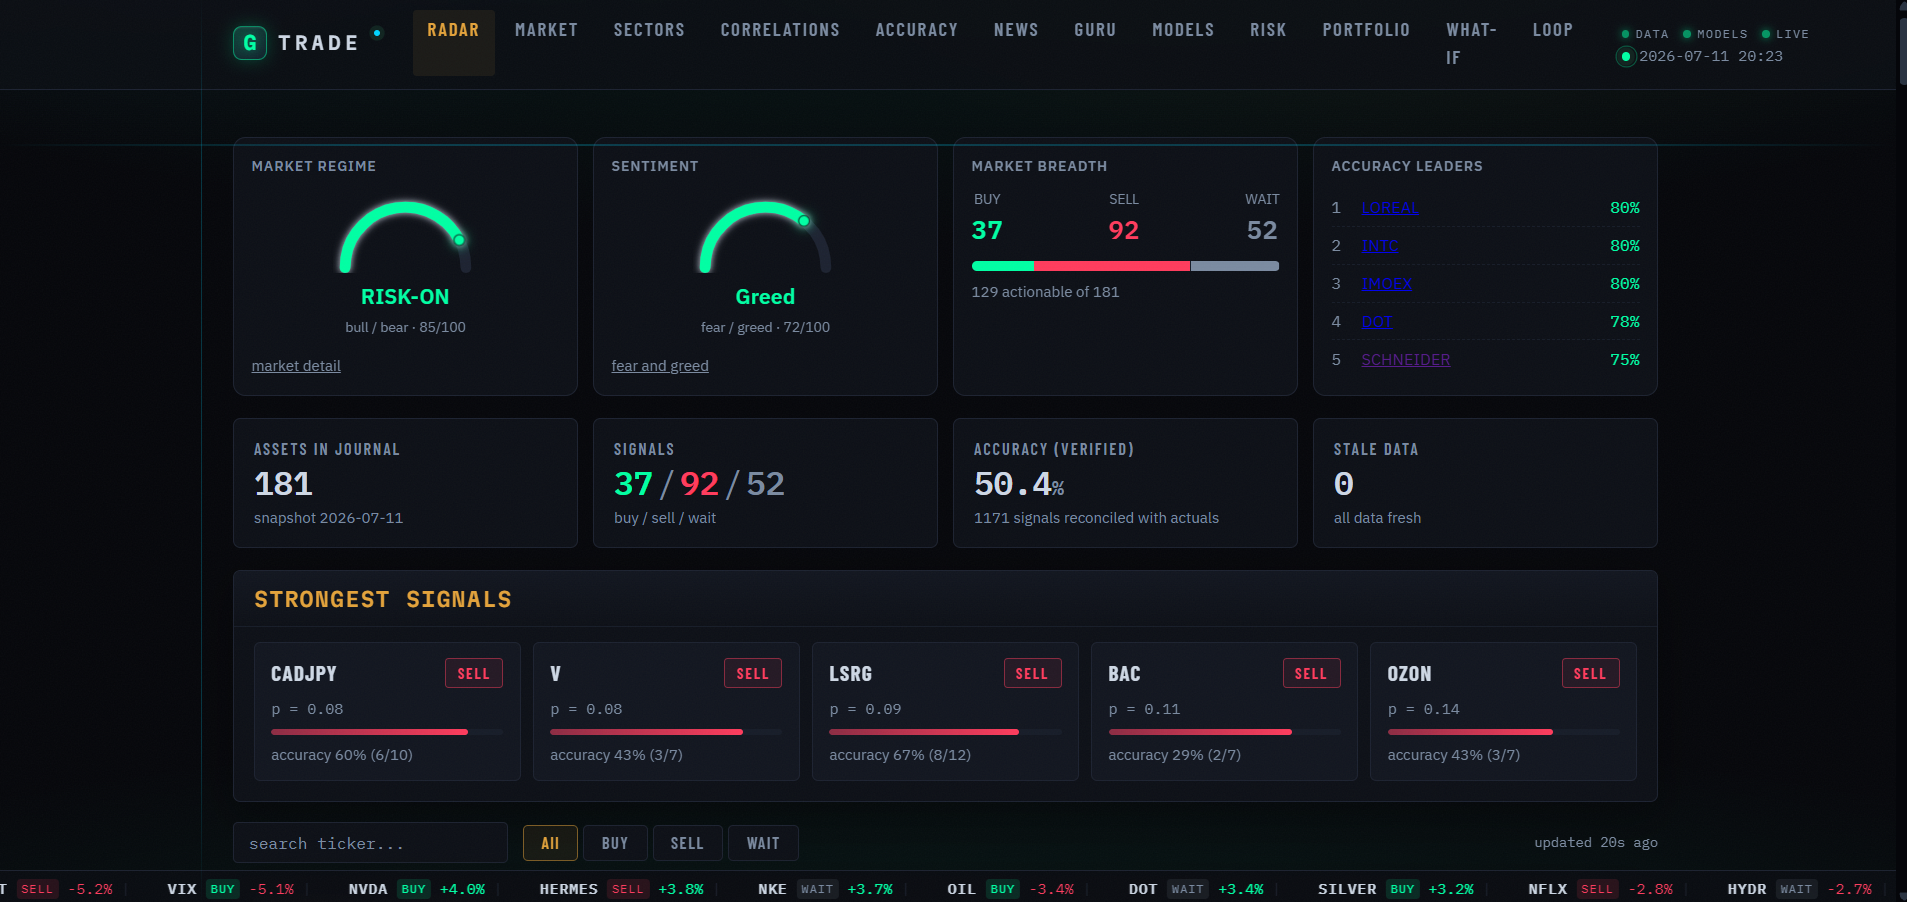
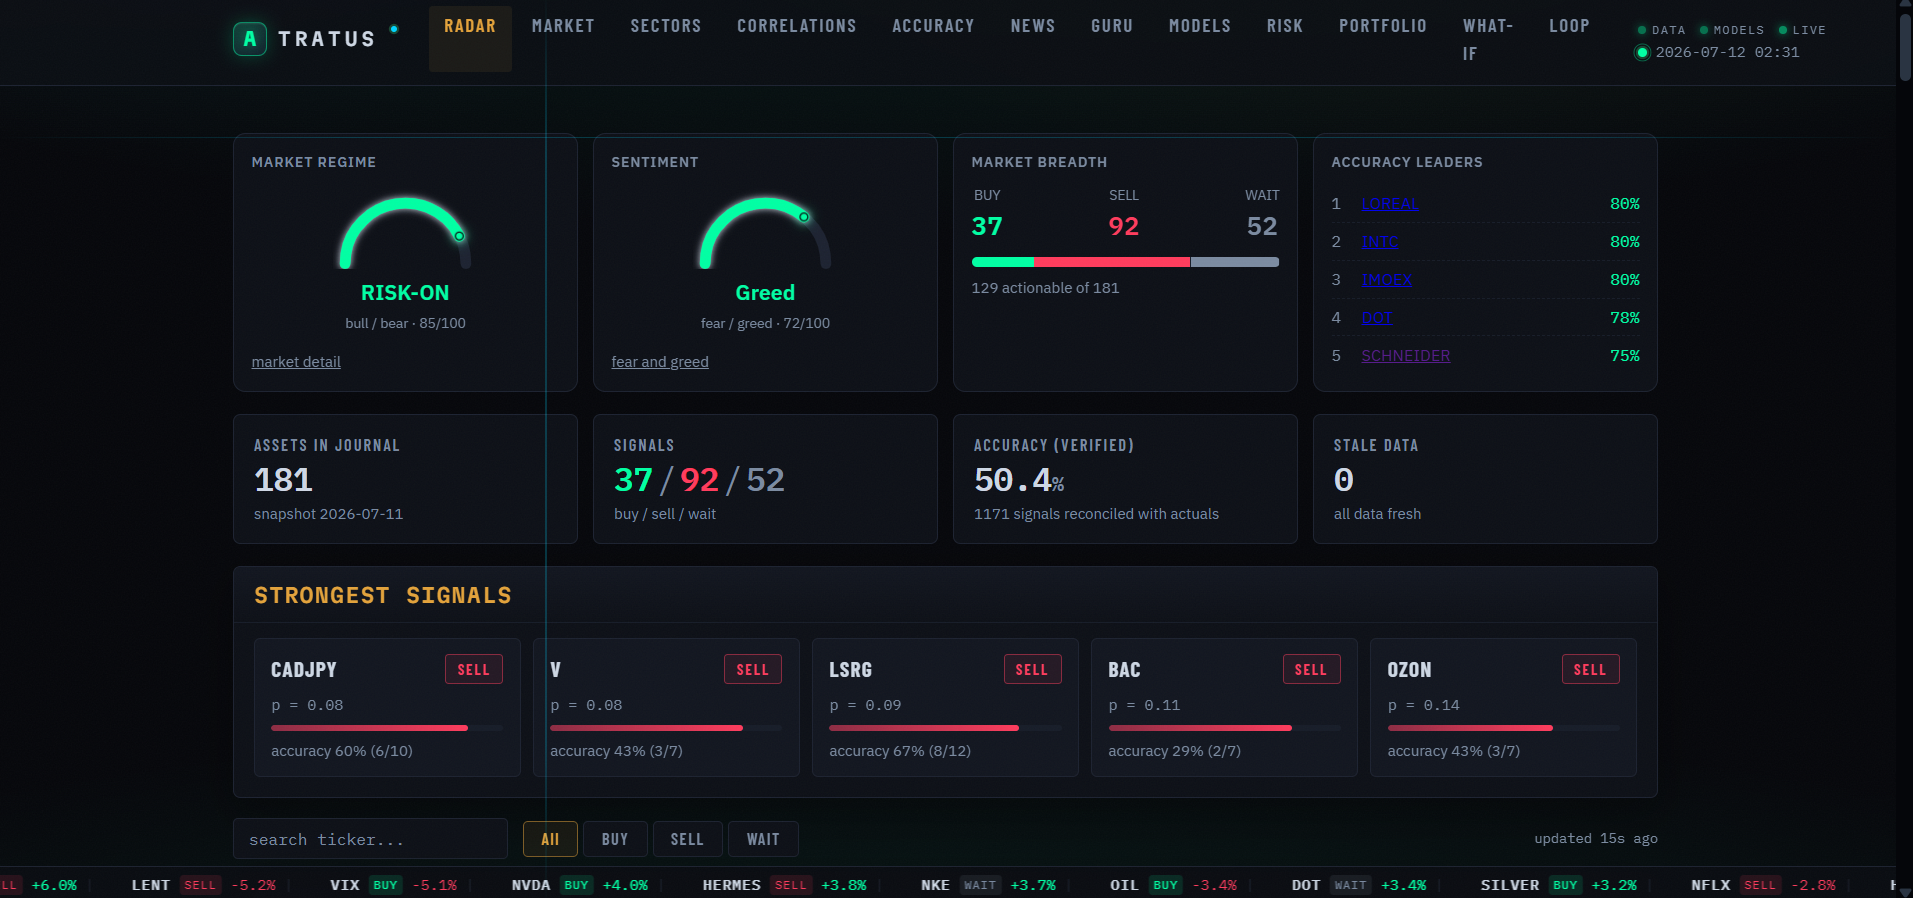
chore: point GitHub links to pavlenchichikov/Atratus and refresh WebUI screenshots

diff --git a/src/config.ts b/src/config.ts
@@ -1,5 +1,5 @@
 export const LINKS = {
-  repo: "https://github.com/pavlenchichikov/G-Trade",
+  repo: "https://github.com/pavlenchichikov/Atratus",
   github: "https://github.com/pavlenchichikov",
   email: "[email redacted]",
 };

diff --git a/README.md b/README.md
@@ -4,7 +4,7 @@ A bilingual (RU / EN) one-page landing site for **Atratus**, a multi-asset
 machine-learning trading-signal engine. Built as a portfolio piece and the
 project's public page.
 
-- Repo it showcases: https://github.com/pavlenchichikov/G-Trade
+- Repo it showcases: https://github.com/pavlenchichikov/Atratus
 
 ## Stack
 